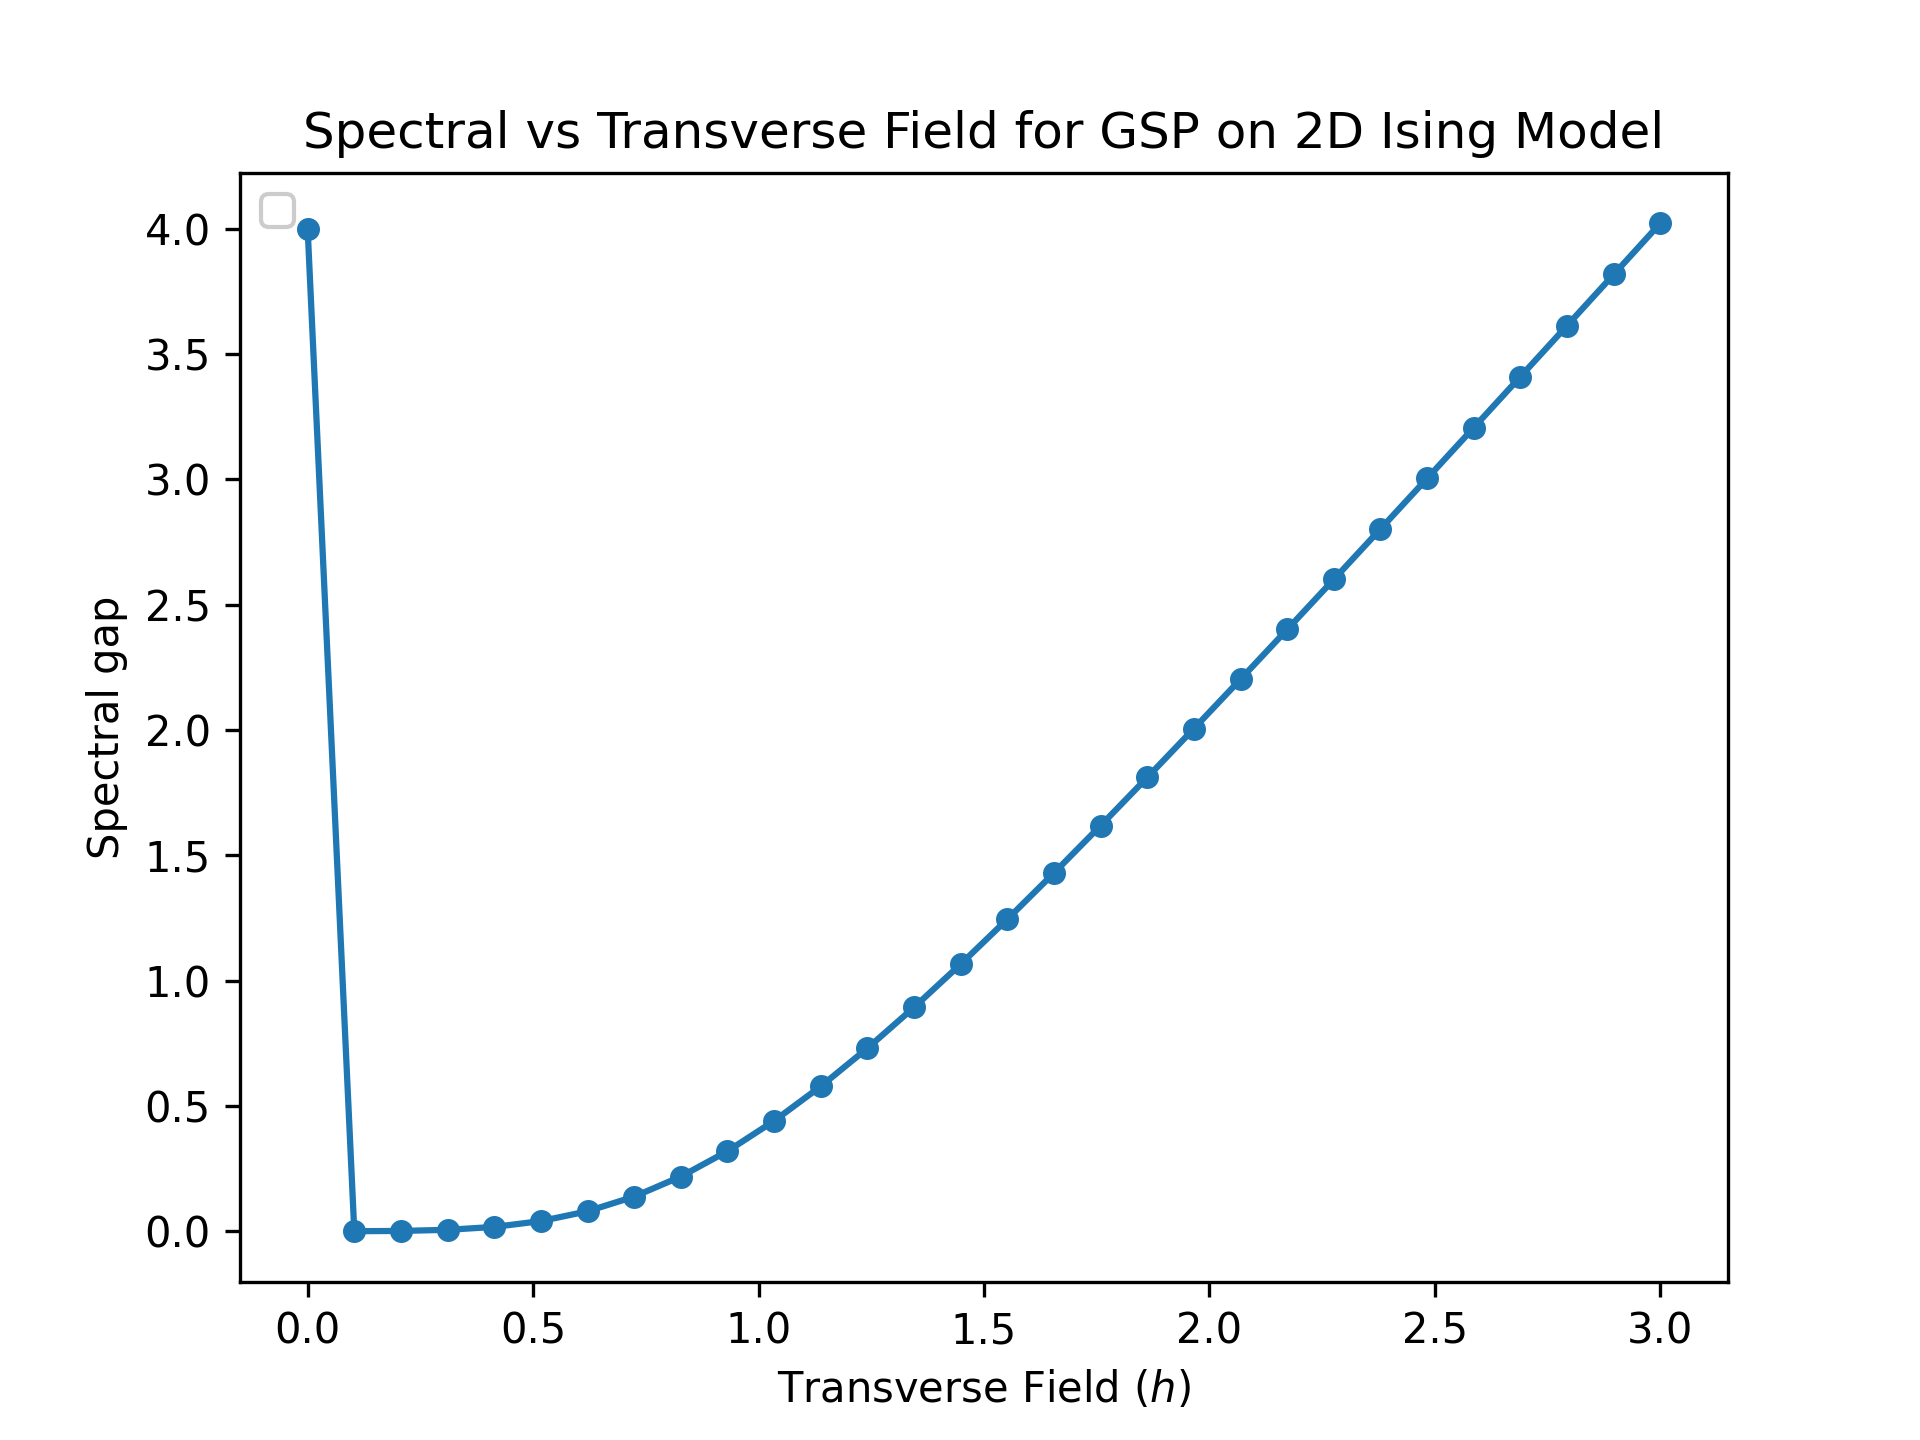
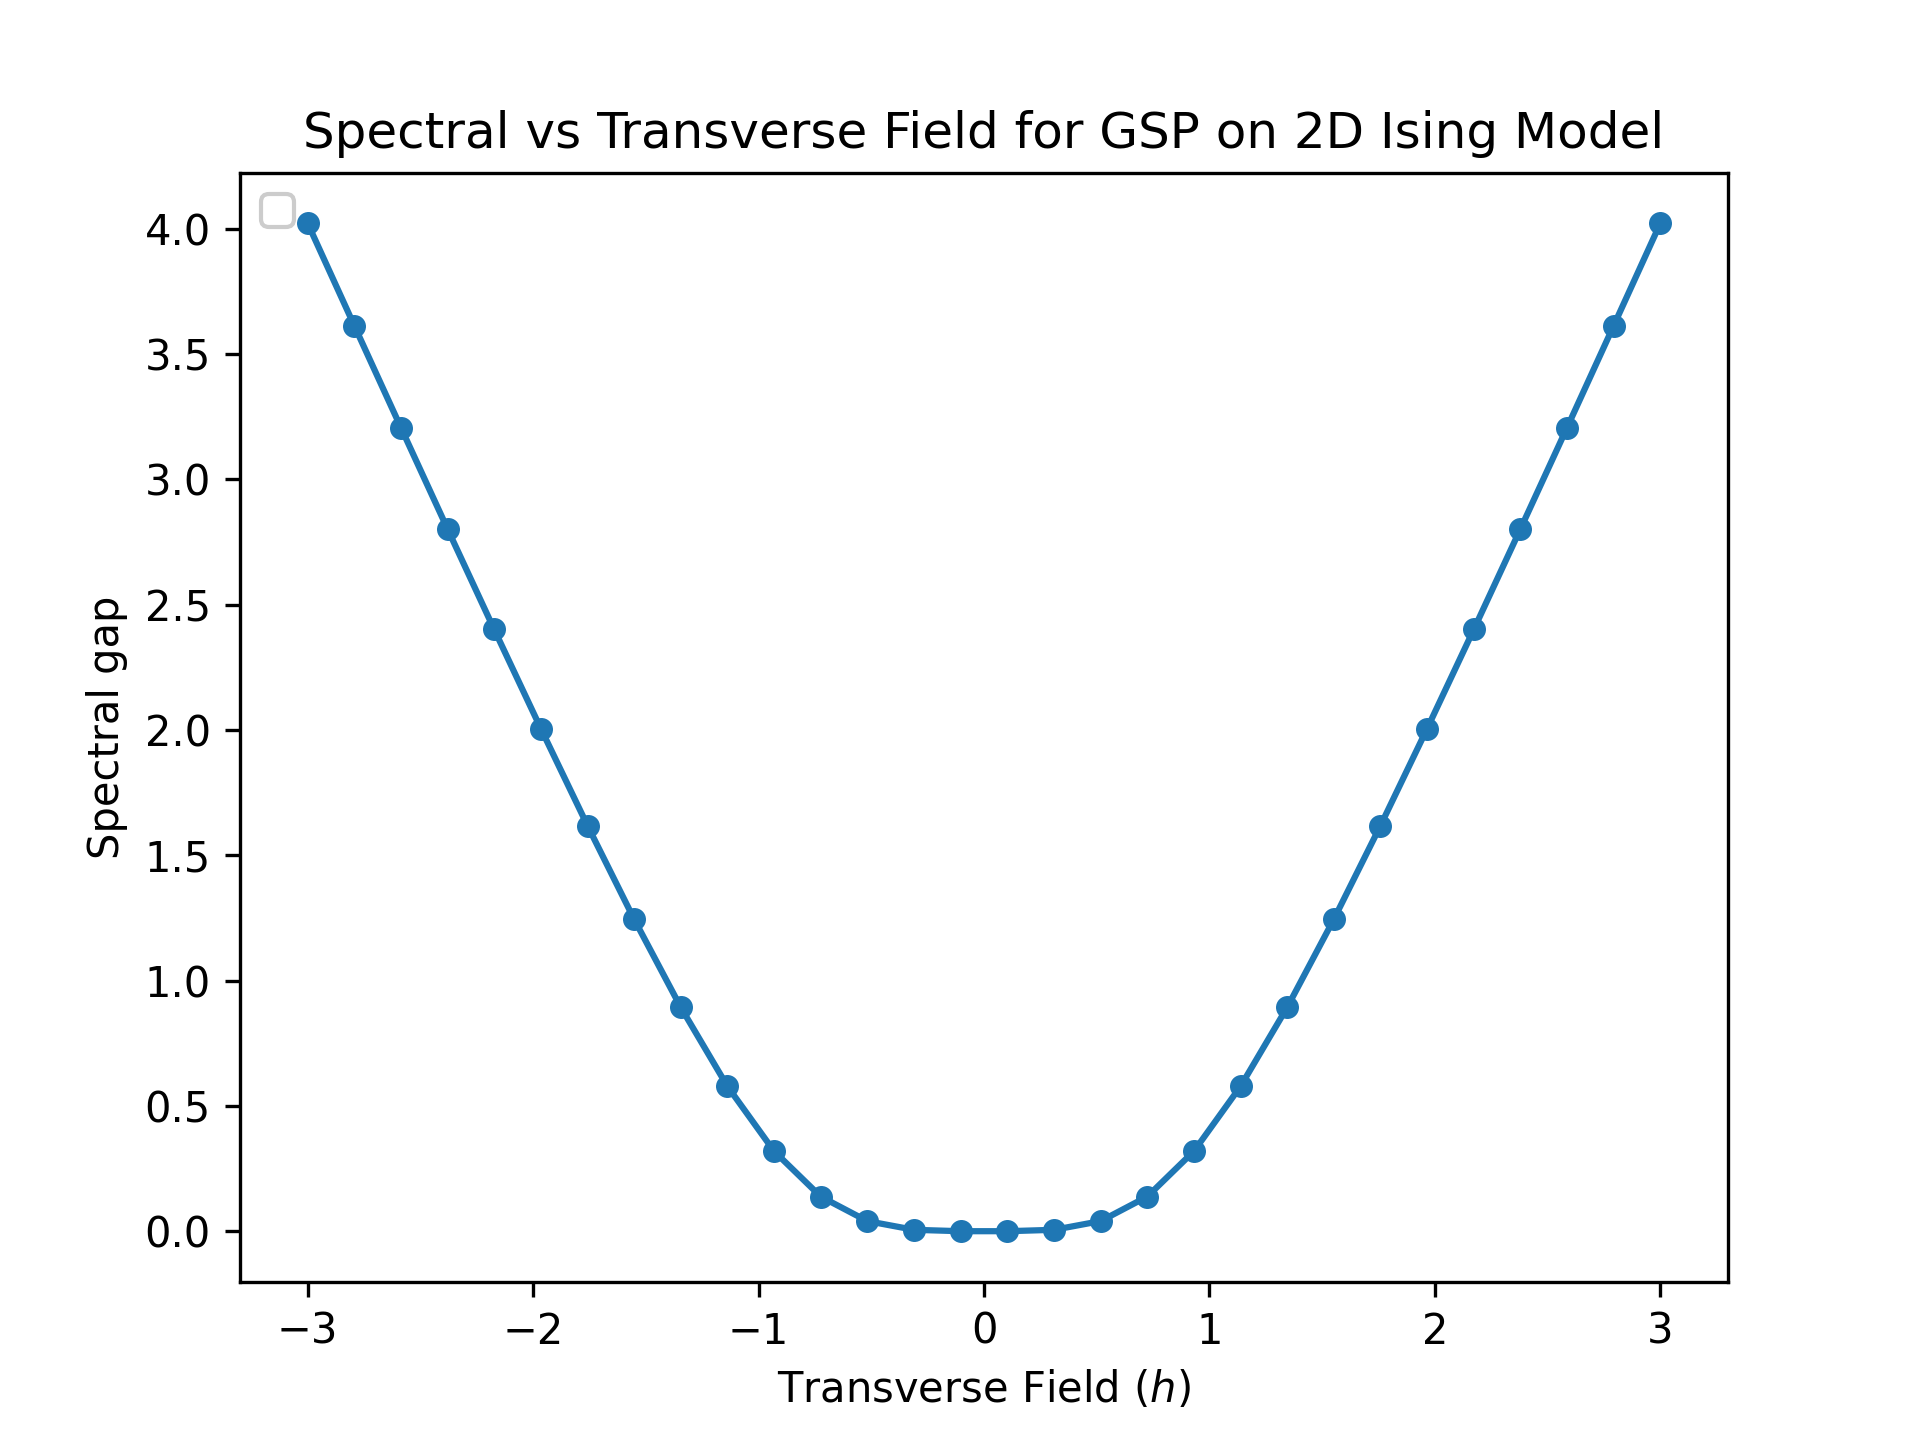
2d plot updated with negative h

diff --git a/ising/hamiltonian/hamiltonian.py b/ising/hamiltonian/hamiltonian.py
@@ -100,7 +100,7 @@ class Hamiltonian:
         degeneracy.
         """
         if self._spectral_gap is None:
-            rounded = list(set(np.round(self.eig_val, decimals=11).real.tolist()))
+            rounded = list(set(np.round(self.eig_val, decimals=8).real.tolist()))
             rounded.sort()
             self._spectral_gap = np.abs(rounded[0] - rounded[1])
         return self._spectral_gap

diff --git a/ising/benchmark/modern/spectral_gap_ising_2d.py b/ising/benchmark/modern/spectral_gap_ising_2d.py
@@ -67,7 +67,7 @@ def plot_spectral_across_h(side: int, start_h: float, end_h: float, point_count:
 
 
 if __name__ == "__main__":
-    start_h, end_h = 0, 3
+    start_h, end_h = -3, 3
     side = 2
     point_count = 30
 
